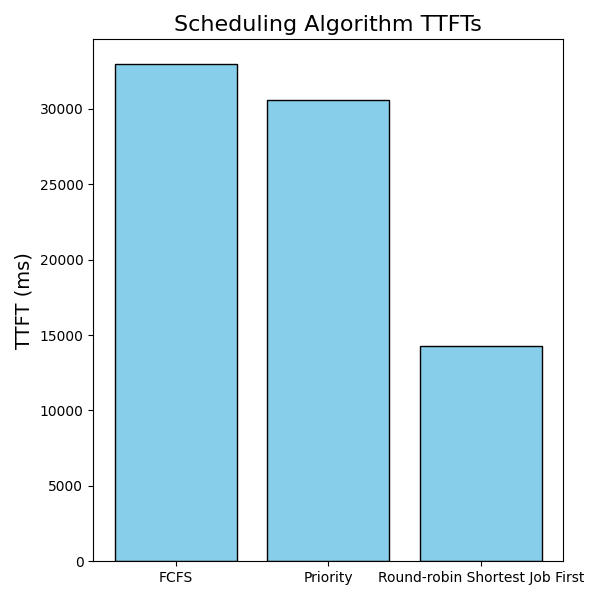
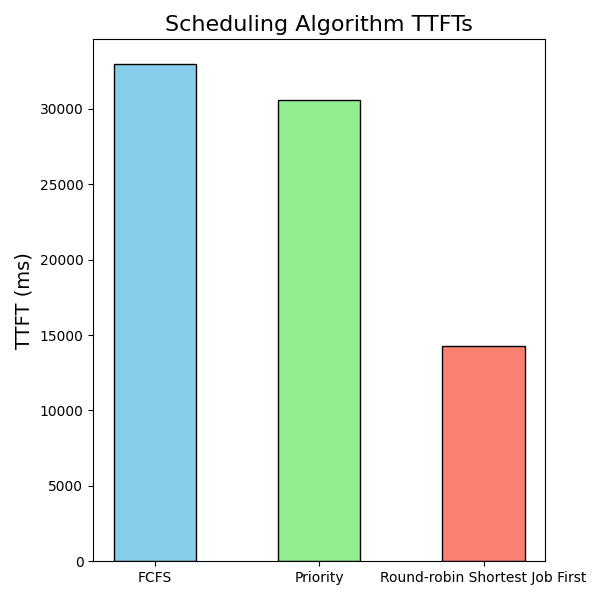
Added colors to TTFT graph

diff --git a/custom_benchmarks/graphs/ttft.py b/custom_benchmarks/graphs/ttft.py
@@ -1,6 +1,5 @@
 import json
 import matplotlib.pyplot as plt
-from matplotlib.patches import FancyBboxPatch
 
 """
 Creates ttft.png which graphs mean TTFT from JSON_DIR json files
@@ -10,35 +9,42 @@ Usage: python ttft.py
 
 JSON_DIR = "../data/facebook_opt-125m/512/"
 JSONS = {
-	"FCFS": "fcfs_o.json",
-	"Priority": "priority_o.json",
-	"Round-robin Shortest Job First": "priority_round_robin_o.json",
+    "FCFS": "fcfs_o.json",
+    "Priority": "priority_o.json",
+    "Round-robin Shortest Job First": "priority_round_robin_o.json",
 }
 DATA_STRING = "mean_ttft_ms"
 
 GRAPH_TITLE = "Scheduling Algorithm TTFTs"
 Y_LABEL = "TTFT (ms)"
+BAR_COLORS = ['skyblue', 'lightgreen', 'salmon']
 
 GRAPH_FILE = "ttft.png"
 
 def read_json_data(file_path) -> float:
-	with open(file_path, 'r') as file:
-		data = json.load(file)
-	return data[DATA_STRING]
+    with open(file_path, 'r') as file:
+        data = json.load(file)
+    return data[DATA_STRING]
 
-# Read data from jsons
+# Read data from JSONs
 data = {}
 for name, file in JSONS.items():
-	data[name] = read_json_data(JSON_DIR + file)
+    data[name] = read_json_data(JSON_DIR + file)
 
-# Create the bar graph
+# Create the bar graph with thinner bars
 plt.figure(figsize=(6, 6))
-plt.bar(data.keys(), data.values(), color='skyblue', edgecolor='black')
+plt.bar(
+    data.keys(), 
+    data.values(), 
+    color=BAR_COLORS, 
+    edgecolor='black', 
+    width=0.5  # Set bar width to make them thinner
+)
 
 # Add title and axis labels
 plt.title(GRAPH_TITLE, fontsize=16)
 plt.ylabel(Y_LABEL, fontsize=14)
 
-# Display the bar graph
+# Save the bar graph
 plt.tight_layout()
 plt.savefig(GRAPH_FILE)
